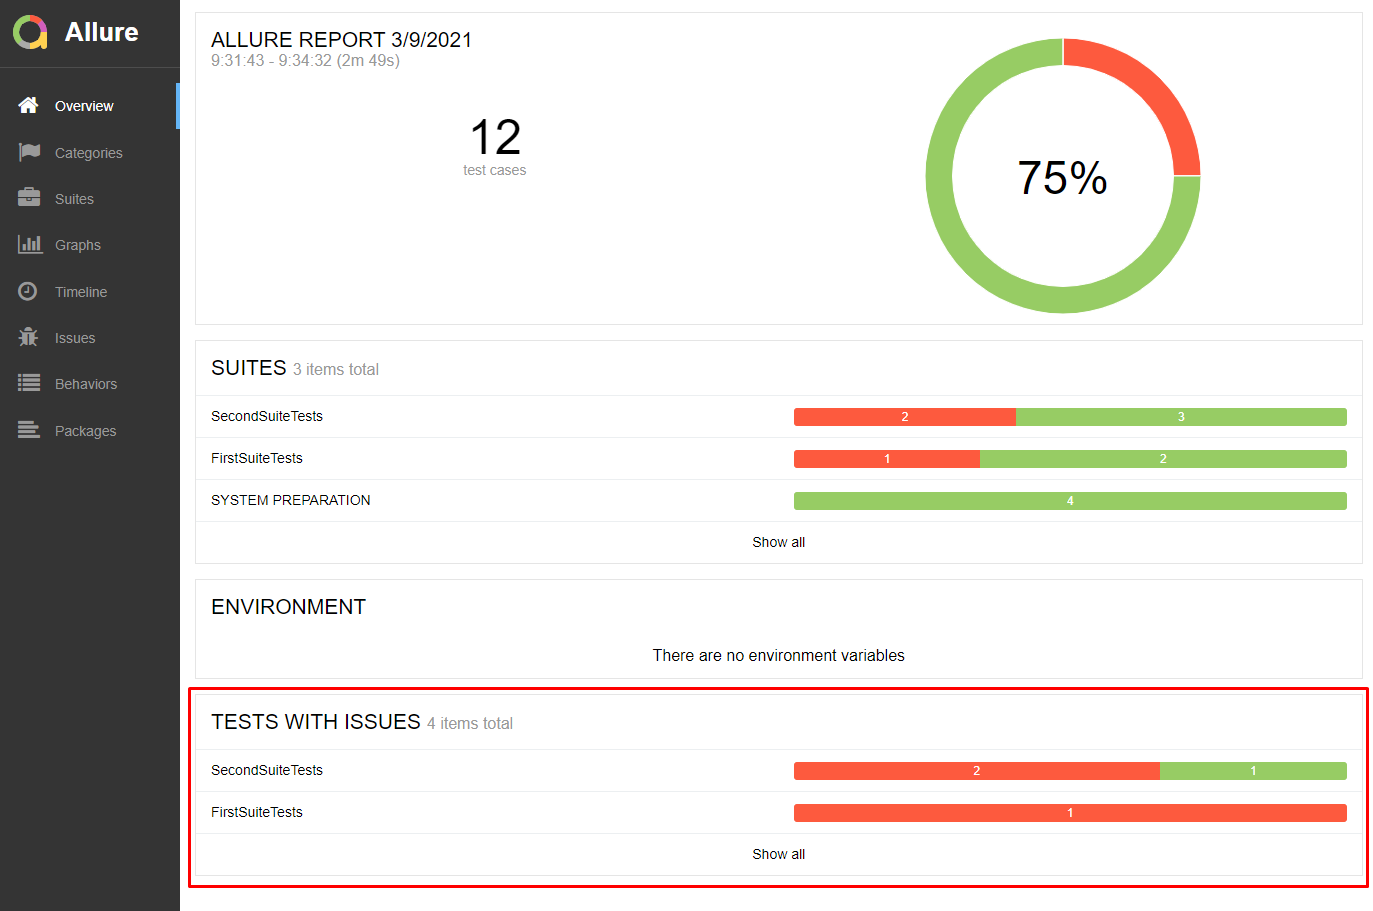
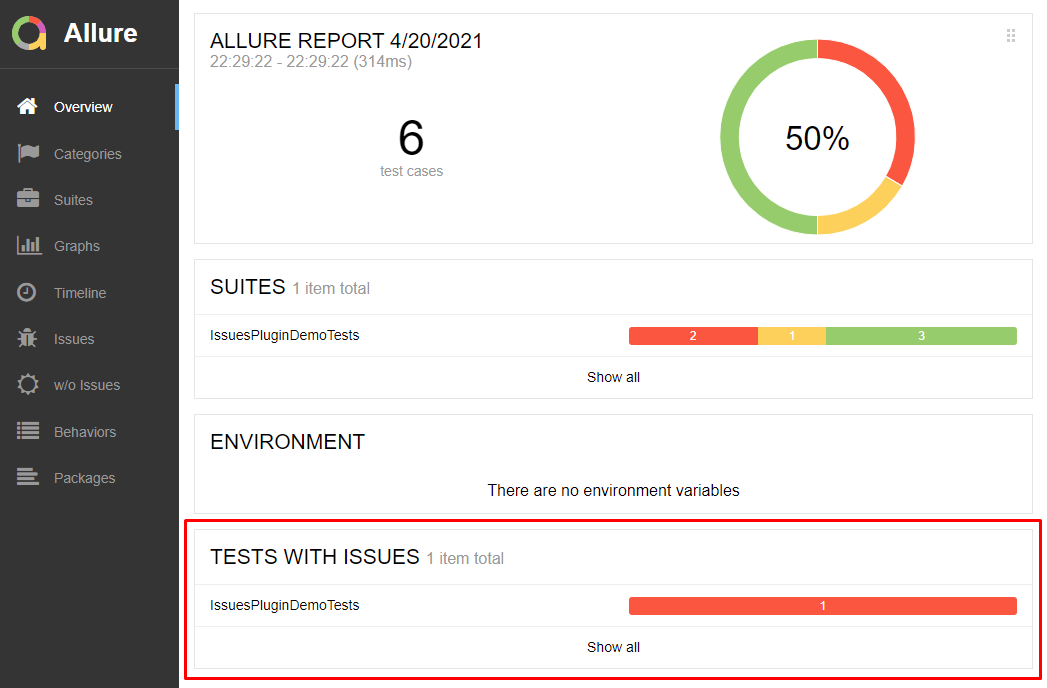
Added 'w/o Issues' tab.

diff --git a/src/dist/static/index.js b/src/dist/static/index.js
@@ -4,6 +4,9 @@ allure.api.addTranslation('en', {
     tab: {
         issues: {
             name: 'Issues'
+        },
+        no_issues: {
+            name: 'w/o Issues'
         }
     },
     widget: {
@@ -18,6 +21,9 @@ allure.api.addTranslation('ru', {
     tab: {
         issues: {
             name: 'Баги'
+        },
+        no_issues: {
+            name: 'Без багов'
         }
     },
     widget: {
@@ -41,6 +47,22 @@ allure.api.addTab('issues', {
             baseUrl: 'issues',
             url: 'data/issues.json',
             csvUrl: 'data/issues.csv'
+        });
+    })
+});
+
+allure.api.addTab('no_issues', {
+    title: 'tab.no_issues.name', icon: 'fa fa-sun-o',
+    route: 'no_issues(/)(:testGroup)(/)(:testResult)(/)(:testResultTab)(/)',
+    onEnter: (function (testGroup, testResult, testResultTab) {
+        return new allure.components.TreeLayout({
+            testGroup: testGroup,
+            testResult: testResult,
+            testResultTab: testResultTab,
+            tabName: 'tab.no_issues.name',
+            baseUrl: 'no_issues',
+            url: 'data/no-issues.json',
+            csvUrl: 'data/no-issues.csv'
         });
     })
 });

diff --git a/src/main/java/com/github/stykalin/allure/issues/NoIssuesPlugin.java b/src/main/java/com/github/stykalin/allure/issues/NoIssuesPlugin.java
@@ -1,0 +1,94 @@
+package com.github.stykalin.allure.issues;
+
+import io.qameta.allure.CommonCsvExportAggregator;
+import io.qameta.allure.CommonJsonAggregator;
+import io.qameta.allure.CompositeAggregator;
+import io.qameta.allure.core.LaunchResults;
+import io.qameta.allure.csv.CsvExportSuite;
+import io.qameta.allure.entity.TestResult;
+import io.qameta.allure.tree.TestResultTree;
+import io.qameta.allure.tree.Tree;
+
+import java.util.Arrays;
+import java.util.Collection;
+import java.util.List;
+import java.util.stream.Collectors;
+
+import static io.qameta.allure.entity.LabelName.PARENT_SUITE;
+import static io.qameta.allure.entity.LabelName.SUB_SUITE;
+import static io.qameta.allure.entity.LabelName.SUITE;
+import static io.qameta.allure.entity.TestResult.comparingByTimeAsc;
+import static io.qameta.allure.tree.TreeUtils.groupByLabels;
+
+public class NoIssuesPlugin extends CompositeAggregator {
+
+    private static final String ISSUE_LINK_TYPE = "issue";
+    private static final String NO_ISSUES = "no_issues";
+
+    /**
+     * Name of the json file.
+     */
+    protected static final String JSON_FILE_NAME = "no-issues.json";
+
+    /**
+     * Name of the csv file.
+     */
+    protected static final String CSV_FILE_NAME = "no-issues.csv";
+
+    public NoIssuesPlugin() {
+        super(Arrays.asList(
+                new JsonAggregator(), new CsvExportAggregator()
+        ));
+    }
+
+    @SuppressWarnings("PMD.DefaultPackage")
+    static /* default */ Tree<TestResult> getData(final List<LaunchResults> launchResults) {
+
+        // @formatter:off
+        final Tree<TestResult> issuesTree = new TestResultTree(
+                NO_ISSUES,
+                testResult -> groupByLabels(testResult, PARENT_SUITE, SUITE, SUB_SUITE)
+        );
+        // @formatter:on
+
+        launchResults.stream()
+                .map(LaunchResults::getResults)
+                .flatMap(Collection::stream)
+                .filter(tr -> tr.getLinks().stream().noneMatch(link -> link.getType().equals(ISSUE_LINK_TYPE)))
+                .sorted(comparingByTimeAsc())
+                .forEach(issuesTree::add);
+        return issuesTree;
+    }
+
+    /**
+     * Generates tree data.
+     */
+    private static class JsonAggregator extends CommonJsonAggregator {
+
+        JsonAggregator() {
+            super(JSON_FILE_NAME);
+        }
+
+        @Override
+        protected Tree<TestResult> getData(final List<LaunchResults> launches) {
+            return NoIssuesPlugin.getData(launches);
+        }
+    }
+
+    /**
+     * Generates export data.
+     */
+    private static class CsvExportAggregator extends CommonCsvExportAggregator<CsvExportSuite> {
+
+        CsvExportAggregator() {
+            super(CSV_FILE_NAME, CsvExportSuite.class);
+        }
+
+        @Override
+        protected List<CsvExportSuite> getData(final List<LaunchResults> launchesResults) {
+            return launchesResults.stream()
+                    .flatMap(launch -> launch.getResults().stream())
+                    .map(CsvExportSuite::new).collect(Collectors.toList());
+        }
+    }
+}

diff --git a/src/test/java/com/github/stykalin/allure/issues/IssuesPluginTest.java b/src/test/java/com/github/stykalin/allure/issues/IssuesPluginTest.java
@@ -1,27 +1,16 @@
 package com.github.stykalin.allure.issues;
 
 import io.qameta.allure.core.LaunchResults;
-import io.qameta.allure.entity.Label;
-import io.qameta.allure.entity.Link;
-import io.qameta.allure.entity.Status;
 import io.qameta.allure.entity.TestResult;
 import io.qameta.allure.tree.TestResultTreeGroup;
 import io.qameta.allure.tree.Tree;
 import io.qameta.allure.tree.TreeWidgetData;
 import org.junit.jupiter.api.Test;
 
-import java.util.Collections;
-import java.util.HashSet;
-import java.util.Set;
-
-import static java.util.Arrays.asList;
 import static java.util.Collections.singletonList;
 import static org.assertj.core.api.Assertions.assertThat;
 
-public class IssuesPluginTest {
-    public static final String SUITE_LABEL_NAME = "suite";
-    public static final String ISSUE_LINK_TYPE = "issue";
-    public static final String TMS_LINK_TYPE = "tms";
+public class IssuesPluginTest extends BasePluginTest {
 
     @Test
     public void issuesAggregationTest() {
@@ -49,44 +38,5 @@ public class IssuesPluginTest {
                 .extracting("name")
                 .containsExactlyInAnyOrder("S2", "S3");
         assertThat(issuesData.getTotal()).isEqualTo(3);
-    }
-
-    private LaunchResults getLaunchResults() {
-        final Set<TestResult> testResults = new HashSet<>();
-        testResults.add(createPassedTestResult("A-1", "S1"));
-        testResults.add(createPassedTestResult("A-2", "S1"));
-        testResults.add(createPassedTestResult("A-3", "S2"));
-        testResults.add(createTestResultWithIssues("A-4", "I-2", "S2", Status.FAILED));
-        testResults.add(createTestResultWithIssues("A-5", "I-3", "S2", Status.PASSED));
-        testResults.add(createPassedTestResult("A-6", "S3"));
-        testResults.add(createTestResultWithIssues("A-7", "I-4", "S3", Status.FAILED));
-
-        return new SimpleLaunchResults(testResults, Collections.emptyMap(), Collections.emptyMap());
-    }
-
-    private TestResult createPassedTestResult(String tmsName, String suiteName) {
-        return new TestResult()
-                .setStatus(Status.PASSED)
-                .setLinks(singletonList(createTmsLink(tmsName)))
-                .setLabels(singletonList(createSuite(suiteName)));
-    }
-
-    private TestResult createTestResultWithIssues(String tmsName, String issueName, String suiteName, Status status) {
-        return new TestResult()
-                .setStatus(status)
-                .setLinks(asList(createTmsLink(tmsName), createIssueLink(issueName)))
-                .setLabels(singletonList(createSuite(suiteName)));
-    }
-
-    private Link createTmsLink(String name) {
-        return new Link().setName(name).setType(TMS_LINK_TYPE);
-    }
-
-    private Link createIssueLink(String name) {
-        return new Link().setName(name).setType(ISSUE_LINK_TYPE);
-    }
-
-    private Label createSuite(String suiteName) {
-        return new Label().setName(SUITE_LABEL_NAME).setValue(suiteName);
     }
 }

diff --git a/src/test/java/com/github/stykalin/allure/issues/BasePluginTest.java b/src/test/java/com/github/stykalin/allure/issues/BasePluginTest.java
@@ -1,0 +1,62 @@
+package com.github.stykalin.allure.issues;
+
+import io.qameta.allure.core.LaunchResults;
+import io.qameta.allure.entity.Label;
+import io.qameta.allure.entity.Link;
+import io.qameta.allure.entity.Status;
+import io.qameta.allure.entity.TestResult;
+
+import java.util.Collections;
+import java.util.HashSet;
+import java.util.Set;
+
+import static java.util.Arrays.asList;
+import static java.util.Collections.singletonList;
+
+public class BasePluginTest {
+
+    public static final String SUITE_LABEL_NAME = "suite";
+    public static final String ISSUE_LINK_TYPE = "issue";
+    public static final String TMS_LINK_TYPE = "tms";
+
+    LaunchResults getLaunchResults() {
+        final Set<TestResult> testResults = new HashSet<>();
+        testResults.add(createPassedTestResult("A-1", "S1"));
+        testResults.add(createPassedTestResult("A-2", "S1"));
+        testResults.add(createPassedTestResult("A-3", "S2"));
+        testResults.add(createTestResultWithIssues("A-4", "I-2", "S2", Status.FAILED));
+        testResults.add(createTestResultWithIssues("A-5", "I-3", "S2", Status.PASSED));
+        testResults.add(createPassedTestResult("A-6", "S3"));
+        testResults.add(createTestResultWithIssues("A-7", "I-4", "S3", Status.FAILED));
+
+        return new SimpleLaunchResults(testResults, Collections.emptyMap(), Collections.emptyMap());
+    }
+
+    private TestResult createPassedTestResult(String tmsName, String suiteName) {
+        return new TestResult()
+                .setName(tmsName)
+                .setStatus(Status.PASSED)
+                .setLinks(singletonList(createTmsLink(tmsName)))
+                .setLabels(singletonList(createSuite(suiteName)));
+    }
+
+    private TestResult createTestResultWithIssues(String tmsName, String issueName, String suiteName, Status status) {
+        return new TestResult()
+                .setName(tmsName)
+                .setStatus(status)
+                .setLinks(asList(createTmsLink(tmsName), createIssueLink(issueName)))
+                .setLabels(singletonList(createSuite(suiteName)));
+    }
+
+    private Link createTmsLink(String name) {
+        return new Link().setName(name).setType(TMS_LINK_TYPE);
+    }
+
+    private Link createIssueLink(String name) {
+        return new Link().setName(name).setType(ISSUE_LINK_TYPE);
+    }
+
+    private Label createSuite(String suiteName) {
+        return new Label().setName(SUITE_LABEL_NAME).setValue(suiteName);
+    }
+}

diff --git a/src/test/java/com/github/stykalin/allure/issues/NoIssuePluginTest.java b/src/test/java/com/github/stykalin/allure/issues/NoIssuePluginTest.java
@@ -1,0 +1,35 @@
+package com.github.stykalin.allure.issues;
+
+import io.qameta.allure.core.LaunchResults;
+import io.qameta.allure.entity.TestResult;
+import io.qameta.allure.tree.TestResultTreeGroup;
+import io.qameta.allure.tree.Tree;
+import io.qameta.allure.tree.TreeNode;
+import org.junit.jupiter.api.Test;
+
+import java.util.List;
+import java.util.stream.Collectors;
+
+import static java.util.Collections.singletonList;
+import static org.assertj.core.api.Assertions.assertThat;
+
+public class NoIssuePluginTest extends BasePluginTest {
+
+    @Test
+    public void noIssuesAggregationTest() {
+        LaunchResults results = getLaunchResults();
+
+        Tree<TestResult> issuesData = NoIssuesPlugin.getData(singletonList(results));
+
+        assertThat(issuesData.getChildren())
+                .extracting("name")
+                .containsExactlyInAnyOrder("S1", "S2", "S3");
+
+        List<String> testResultNames = issuesData.getChildren().stream()
+                .flatMap(x -> ((TestResultTreeGroup) x).getChildren().stream())
+                .map(TreeNode::getName)
+                .collect(Collectors.toList());
+
+        assertThat(testResultNames).containsOnly("A-1", "A-2", "A-3", "A-6");
+    }
+}

diff --git a/README.MD b/README.MD
@@ -1,25 +1,36 @@
 ## ALLURE ISSUES PLUGIN
 
-The plugin adds a new tab and a widget with issues tests to [Allure report](https://docs.qameta.io/allure/).
+If you want in your [Allure report](https://docs.qameta.io/allure/) to find out which of your tests have annotation "@Issue" and which of the failed or broken tests don't,
+this plugin adds 2 tabs - _Issues_ and _w/o Issues_ and 1 widget for _Issues_ to show it.
 
 ![](img/Screenshot_1.png)
 ![](img/Screenshot_2.png)
-*Based on suites plugin.
+![](img/Screenshot_3.png)
+![](img/Screenshot_4.png)
+
+*[_Based on suites plugin._](https://github.com/allure-framework/allure2/blob/c85ea2b8e3992c9eac9f66c35f7914ad1bf9e03b/allure-generator/src/main/java/io/qameta/allure/suites/SuitesPlugin.java)
 
 ### Installation
 
-#### I. Clone the project
+This project provides 3 ways of installation:
 
-`git clone git@github.com:stykalin/allure-issues-plugin.git`
-
-This project provides 2 ways of installation:
-
-1. Manual installation
+1. Manual installation from source
+    * Clone the project `git clone git@github.com:stykalin/allure-issues-plugin.git`
     * Execute gradle task: `gradlew zipPlugin`
     * Unpack _allure-issues-plugin/build/plugin/issues-plugin.zip_
       to _<your_allure_folder>/plugins/issues-plugin_,
-    * add string _- issues-plugin_ to _<your_allure_folder>/config/allure.yml_, according official documentation.
+    * Add string _- issues-plugin_ to _<your_allure_folder>/config/allure.yml_,
+      according to [official documentation](https://docs.qameta.io/allure/#_step_8_enabling_a_plugin).
 
-2. Auto installation
+
+2. Auto installation from source
+    * Clone the project `git clone git@github.com:stykalin/allure-issues-plugin.git`
     * Execute gradle task: `gradlew addToAllure -Pdir="<path_to_your_allure_folder>"`  
       Where _<path_to_your_allure_folder>_ could be like `D:\allure-2.13.8` or `/opt/allure-2.13.8`
+
+
+3. Manual installation from releases
+    * Download the latest version of plugin from [releases page](https://github.com/stykalin/allure-issues-plugin/releases)
+    * Unpack it to _<your_allure_folder>/plugins/issues-plugin_,
+    * Add string _- issues-plugin_ to _<your_allure_folder>/config/allure.yml_,
+      according to [official documentation](https://docs.qameta.io/allure/#_step_8_enabling_a_plugin).
